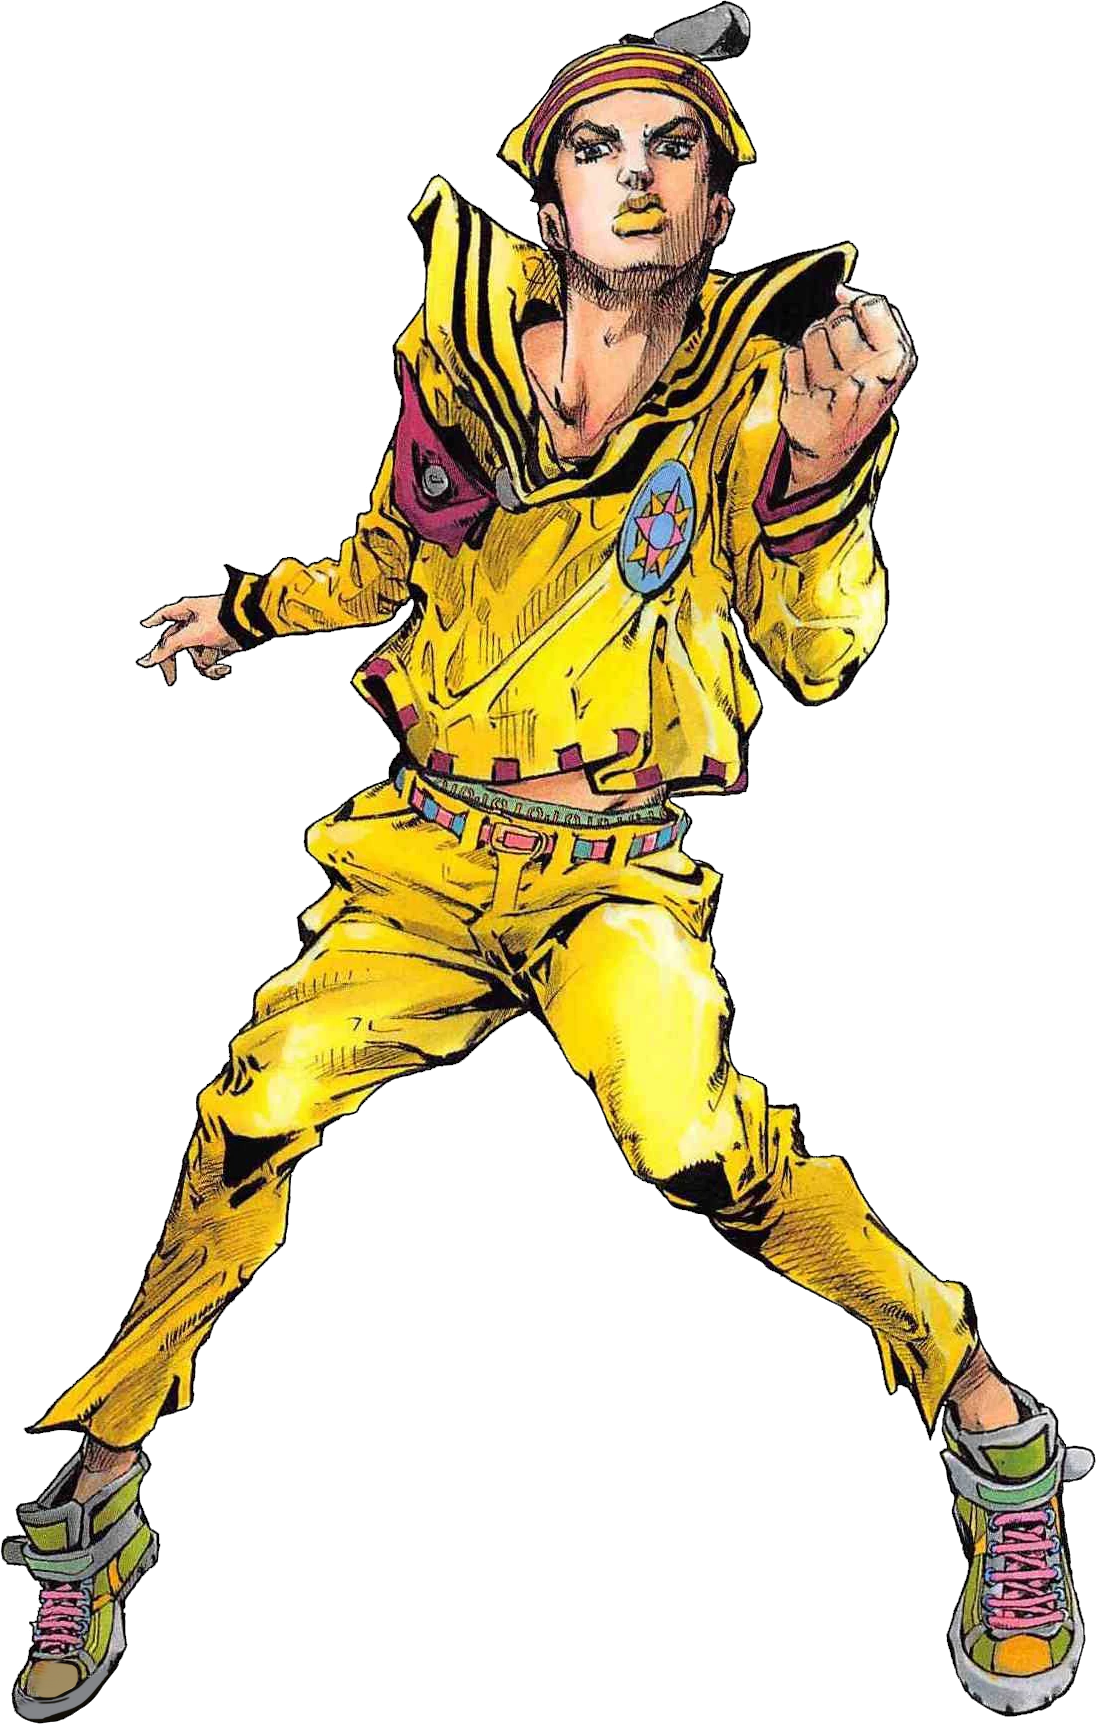
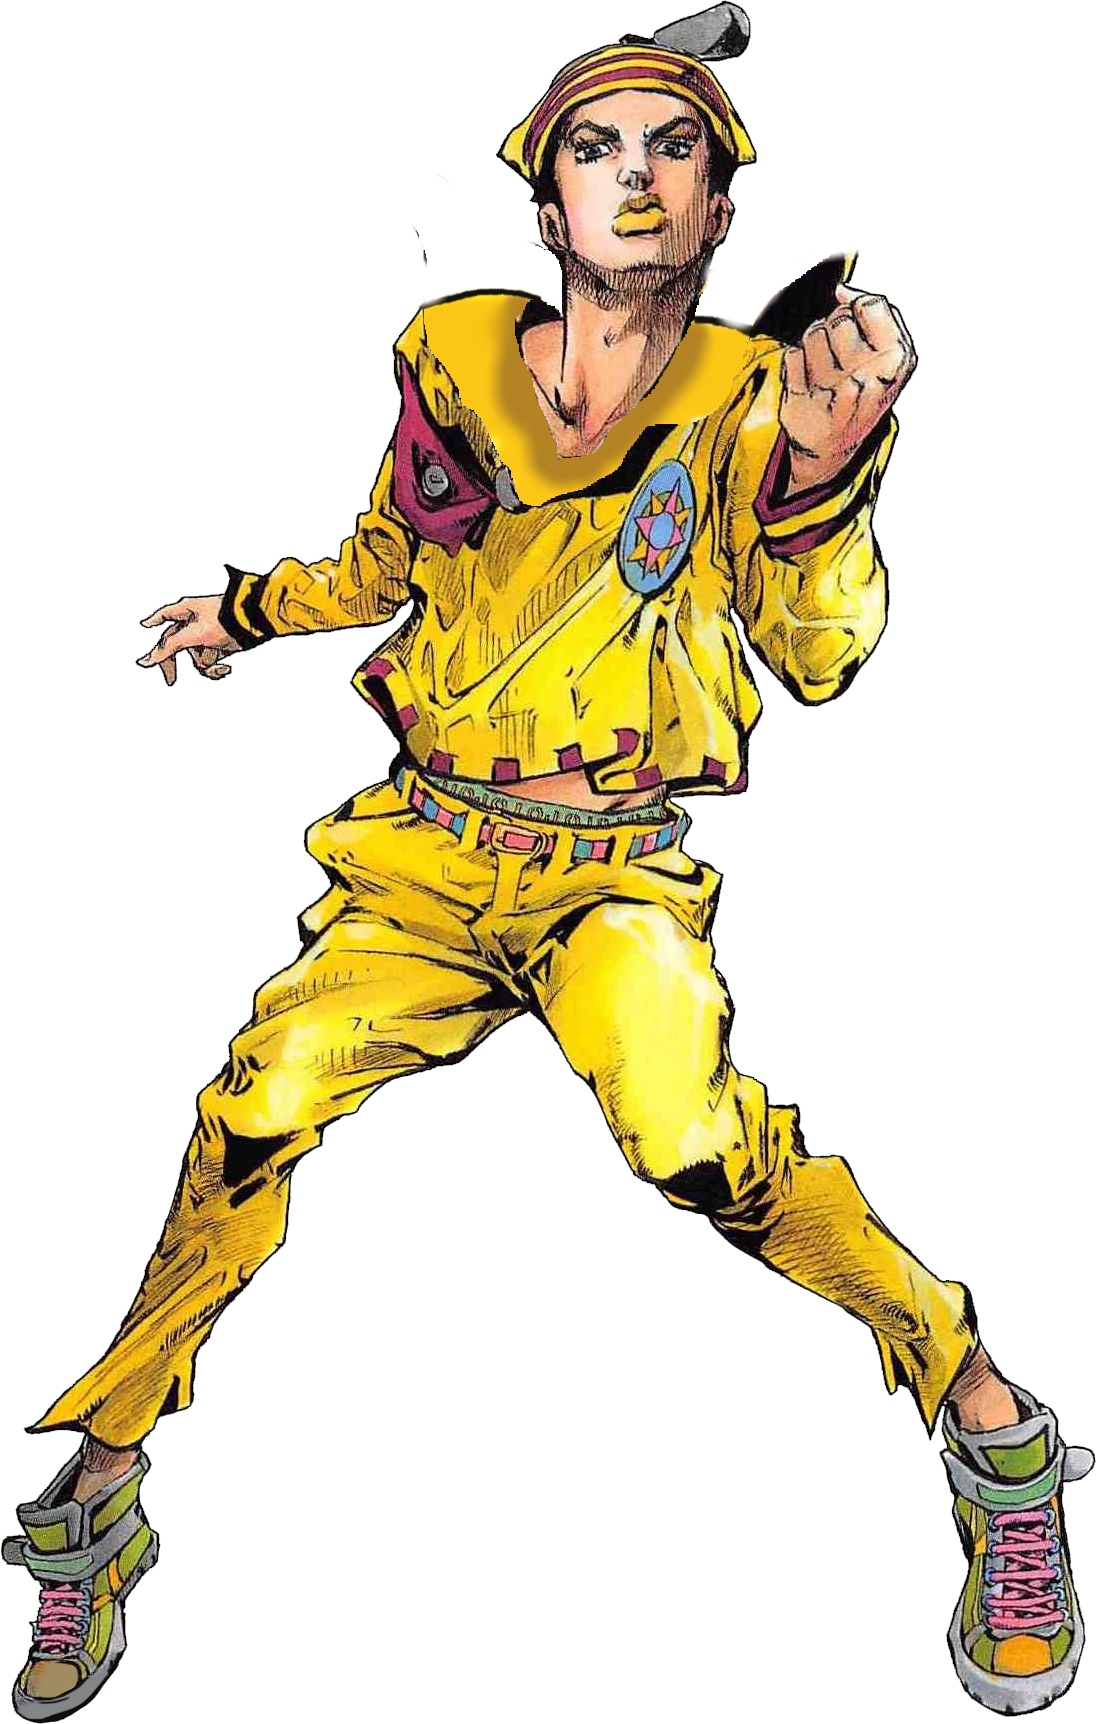
CLEAN AF

Changed region(s): [[0.3723, 0.0922, 0.7755, 0.3074]]

diff --git a/src/components/SoftAndWetPage/SoftAndWetPage.js b/src/components/SoftAndWetPage/SoftAndWetPage.js
@@ -33,7 +33,32 @@ const SoftAndWetPage = () => {
         className="container"
         style={{ transform: props.xy.interpolate(trans2) }}
       >
-        <img alt="Josuke" src={Josuke} className="josuke" />
+        <img alt="Josuke" src={Josuke} className="josuke"></img>
+        <div className="collar">
+          <svg>
+            <filter id="turbulence" x="0" y="0" width="100%" height="100%">
+              <feTurbulence
+                id="collar-filter"
+                numOctaves="3"
+                seed="2"
+                baseFrequency="0.00 0.01"
+                type="fractalNoise"
+              ></feTurbulence>
+              <feDisplacementMap
+                scale="20"
+                in="SourceGraphic"
+              ></feDisplacementMap>
+            </filter>
+            <animate
+              xlinkHref="#collar-filter"
+              attributeName="baseFrequency"
+              dur="60s"
+              keyTimes="0;0.5;1"
+              values="0.0 0.0;0.0 0.03;0.0 0.0"
+              repeatCount="indefinite"
+            />
+          </svg>
+        </div>
       </animated.div>
     </div>
   )

diff --git a/src/assets/styles/_SoftAndWetPage.scss b/src/assets/styles/_SoftAndWetPage.scss
@@ -18,7 +18,16 @@
 
       margin-left: -40%;
     }
-
+    .collar {
+      position: absolute;
+      background-image: url('../images/JosukeMask.png');
+      background-size: cover;
+      top: 2px;
+      left: -40%;
+      width: 115%;
+      height: 100%;
+      filter: url('#turbulence');
+    }
     .soft-and-wet {
       position: relative;
       width: 100%;
